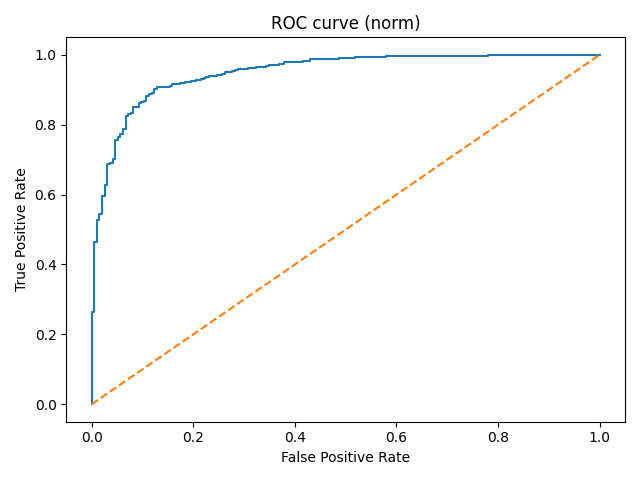
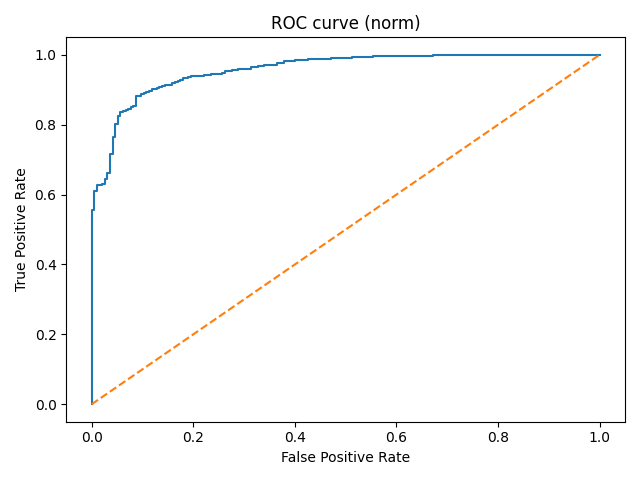
fixed bugs and added train data + automatic feature selection

diff --git a/draft.py b/draft.py
@@ -53,6 +53,8 @@ def gen_plots(df):
     hist(df, min_corr)
     hist(df, "rings")
 
+    return [max_corr, min_corr]
+
 def split_data(i, data_inputx, data_inputy):
 
     x_train, x_test, y_train, y_test = train_test_split(data_inputx, data_inputy, test_size=0.4, random_state=i)
@@ -81,6 +83,10 @@ def scipy_linear_mod(x_train_real, x_test_real, y_train, y_test, transform, mode
         rmse = np.sqrt(mean_squared_error(y_test, y_pred))
         rsquared = r2_score(y_test, y_pred)
 
+        y_pred_train = regr.predict(x_train)
+        rmse_train = np.sqrt(mean_squared_error(y_train, y_pred_train))
+        rsquared_train = r2_score(y_train, y_pred_train)
+
         plt.figure()
         plt.scatter(y_test, y_pred)
         plt.xlabel("True rings")
@@ -107,7 +113,7 @@ def scipy_linear_mod(x_train_real, x_test_real, y_train, y_test, transform, mode
         plt.savefig(f"regression resid vs fit {type_str}.png")
         plt.close()
 
-        return rmse, rsquared
+        return rmse, rsquared, rmse_train, rsquared_train
 
     elif model == 1:
         y_train_binary = (np.asarray(y_train) >= 7)
@@ -120,6 +126,11 @@ def scipy_linear_mod(x_train_real, x_test_real, y_train, y_test, transform, mode
         acc = accuracy_score(y_test_binary, y_pred)
         auc = roc_auc_score(y_test_binary, y_probs)
 
+        y_probs_train = regr.predict_proba(x_train)[:, 1]
+        y_pred_train  = (y_probs_train >= 0.5)
+        acc_train = accuracy_score(y_train_binary, y_pred_train)
+        auc_train = roc_auc_score(y_train_binary, y_probs_train)
+
         fpr, tpr, thresh = roc_curve(y_test_binary, y_probs)
         plt.figure()
         plt.plot(fpr, tpr); plt.plot([0,1], [0,1], linestyle="--")
@@ -130,9 +141,9 @@ def scipy_linear_mod(x_train_real, x_test_real, y_train, y_test, transform, mode
         plt.savefig(f"logistic roc {type_str}.png")
         plt.close()
 
-        return acc, auc
+        return acc, auc, acc_train, auc_train
 
-def selected(x_train_real, x_test_real, y_train, y_test, transform, model):
+def selected(x_train_real, x_test_real, y_train, y_test, transform, model, selected_feats):
     if transform == True:
         x_train = x_train_real.copy()
         x_test = x_test_real.copy()
@@ -147,17 +158,21 @@ def selected(x_train_real, x_test_real, y_train, y_test, transform, model):
 
     if model == 0:
         regr = linear_model.LinearRegression()
-        regr.fit(x_train.iloc[:, [5, 7]], y_train)
+        regr.fit(x_train[selected_feats], y_train)
 
-        y_pred = regr.predict(x_test.iloc[:, [5, 7]])
+        y_pred = regr.predict(x_test[selected_feats])
         rmse = np.sqrt(mean_squared_error(y_test, y_pred))
         rsquared = r2_score(y_test, y_pred)
+
+        y_pred_train = regr.predict(x_train[selected_feats])
+        rmse_train = np.sqrt(mean_squared_error(y_train, y_pred_train))
+        rsquared_train = r2_score(y_train, y_pred_train)
 
         plt.figure()
         plt.scatter(y_test, y_pred)
         plt.xlabel("True rings")
         plt.ylabel("Predicted rings")
-        plt.title(f"Linear: y_true vs y_pred ({type_str}) Selected Features")
+        plt.title(f"Linear: y_true vs y_pred ({type_str}) {str(selected_feats)}")
         plt.savefig(f"linreg_scatter_{type_str}_selected_Features.png")
         plt.close()
 
@@ -166,8 +181,8 @@ def selected(x_train_real, x_test_real, y_train, y_test, transform, model):
         plt.figure()
         plt.hist(res, bins=30)
         plt.xlabel("Residual = y_true - y_pred"); plt.ylabel("count")
-        plt.title(f"Linear: residuals hist ({type_str}) Selected Features")
-        plt.savefig(f"regression resid hist {type_str}_selected_features.png");
+        plt.title(f"Linear: residuals hist ({type_str}) {str(selected_feats)}")
+        plt.savefig(f"regression_resid_hist_{type_str}_selected_features.png");
         plt.close()
 
         # residuals vs fitted
@@ -175,34 +190,39 @@ def selected(x_train_real, x_test_real, y_train, y_test, transform, model):
         plt.scatter(y_pred, res)
         plt.xlabel("Fitted")
         plt.ylabel("Residual")
-        plt.title(f"Linear: residuals vs fitted ({type_str}) Selected Features")
+        plt.title(f"Linear: residuals vs fitted ({type_str}) {str(selected_feats)}")
         plt.savefig(f"regression resid vs fit {type_str}_selected_features.png")
         plt.close()
 
-        return rmseselec, rsquaredselec
+        return rmse, rsquared, rmse_train, rsquared_train
 
     elif model == 1:
         y_train_binary = (np.asarray(y_train) >= 7)
         y_test_binary = (np.asarray(y_test) >= 7) # note this is y true
         regr = linear_model.LogisticRegression(max_iter=1000)
-        regr.fit(x_train.iloc[:, [5, 7]], y_train_binary)
+        regr.fit(x_train[selected_feats], y_train_binary)
 
-        y_probs = regr.predict_proba(x_test.iloc[:, [5, 7]])[:, 1]
+        y_probs = regr.predict_proba(x_test[selected_feats])[:, 1]
         y_pred = (y_probs >= 0.5)
         acc = accuracy_score(y_test_binary, y_pred)
         auc = roc_auc_score(y_test_binary, y_probs)
+
+        y_probs_train = regr.predict_proba(x_train[selected_feats])[:, 1]
+        y_pred_train = (y_probs_train >= 0.5)
+        acc_train = accuracy_score(y_train_binary, y_pred_train)
+        auc_train = roc_auc_score(y_train_binary, y_probs_train)
 
         fpr, tpr, thresh = roc_curve(y_test_binary, y_probs)
         plt.figure()
         plt.plot(fpr, tpr); plt.plot([0,1], [0,1], linestyle="--")
         plt.xlabel("False Positive Rate")
         plt.ylabel("True Positive Rate")
-        plt.title(f"ROC curve ({type_str}) Selected Features")
+        plt.title(f"ROC curve ({type_str}) {str(selected_feats)}")
         plt.tight_layout()
         plt.savefig(f"logistic roc {type_str} selected features.png")
         plt.close()
 
-        return accselec, aucselec
+        return acc, auc, acc_train, auc_train
 
 def neural(x_train, x_test, y_train, y_test): #refer to trial.py
     transformer = MinMaxScaler().fit(x_train.iloc[:,1:])
@@ -216,7 +236,11 @@ def neural(x_train, x_test, y_train, y_test): #refer to trial.py
     rmse = np.sqrt(mean_squared_error(y_test, y_pred))
     rsquared = r2_score(y_test, y_pred)
 
-    return rmse, rsquared
+    y_pred_train = mlp.predict(x_train)
+    rmse_train = np.sqrt(mean_squared_error(y_train, y_pred_train))
+    rsquared_train = r2_score(y_train, y_pred_train)
+
+    return rmse, rsquared, rmse_train, rsquared_train
   
 def process_data(df):
     df.iloc[:, 0] = df.iloc[:, 0].replace({"M": 0, "F": 1, "I": 2})
@@ -224,7 +248,7 @@ def process_data(df):
 def main():
     df = pd.read_csv('abalone.data', header=None, names=["sex", "length", "diameter", "height", "whole_weight", "shucked_weight", "viscera_weight", "shell_weight", "rings"])
     process_data(df)
-    # gen_plots(df)
+    selected_features = gen_plots(df)
     print(df)
 
     rmse = np.zeros(NUM_EXPERIMENTS)
@@ -239,9 +263,29 @@ def main():
     
     rmse_sel = np.zeros(NUM_EXPERIMENTS)
     rsquared_sel = np.zeros(NUM_EXPERIMENTS)
+    acc_sel = np.zeros(NUM_EXPERIMENTS)
+    auc_sel = np.zeros(NUM_EXPERIMENTS)
 
     rmse_nn = np.zeros(NUM_EXPERIMENTS)
     rsquared_nn = np.zeros(NUM_EXPERIMENTS)
+
+    rmse_tr = np.zeros(NUM_EXPERIMENTS)
+    rsquared_tr = np.zeros(NUM_EXPERIMENTS)
+    acc_tr = np.zeros(NUM_EXPERIMENTS)
+    auc_tr = np.zeros(NUM_EXPERIMENTS)
+
+    rmse_norm_tr = np.zeros(NUM_EXPERIMENTS)
+    rsquared_norm_tr = np.zeros(NUM_EXPERIMENTS)
+    acc_norm_tr = np.zeros(NUM_EXPERIMENTS)
+    auc_norm_tr = np.zeros(NUM_EXPERIMENTS)
+
+    rmse_sel_tr = np.zeros(NUM_EXPERIMENTS)
+    rsquared_sel_tr = np.zeros(NUM_EXPERIMENTS)
+    acc_sel_tr = np.zeros(NUM_EXPERIMENTS)
+    auc_sel_tr = np.zeros(NUM_EXPERIMENTS)
+
+    rmse_nn_tr = np.zeros(NUM_EXPERIMENTS)
+    rsquared_nn_tr = np.zeros(NUM_EXPERIMENTS)
     
     data_inputx = df.iloc[:, 0:-1]
     data_inputy = df.iloc[:, -1]
@@ -250,20 +294,25 @@ def main():
 
     for i in range(NUM_EXPERIMENTS):
         x_train, x_test, y_train, y_test = split_data(i, data_inputx, data_inputy)
-        rmse_val, rsquared_val = scipy_linear_mod(x_train, x_test, y_train, y_test, False, 0)
-        acc_val, auc_val = scipy_linear_mod(x_train, x_test, y_train, y_test, False, 1)
-        rmse[i], rsquared[i], acc[i], auc[i] = rmse_val, rsquared_val, acc_val, auc_val
 
-        rmse_val, rsquared_val = scipy_linear_mod(x_train, x_test, y_train, y_test, True, 0)
-        acc_val, auc_val = scipy_linear_mod(x_train, x_test, y_train, y_test, True, 1)
-        rmse_norm[i], rsquared_norm[i], acc_norm[i], auc_norm[i] = rmse_val, rsquared_val, acc_val, auc_val
-    
-        rmseselec, rsquaredselec = selected(x_train, x_test, y_train, y_test, True, 0)
-        accselec, aucselec = selected(x_train, x_test, y_train, y_test, True, 1)
-        rmse_sel[i], rsquared_sel[i], acc_sel[i], auc_sel[i] = rmseselec, rsquaredselec, accselec, aucselec
-    
-        rmse_val, rsquared_val = neural(x_train, x_test, y_train, y_test)
-        rmse_nn[i], rsquared_nn[i] = rmse_val, rsquared_val
+        rmse_te, r2_te, rmse_tr_i, r2_tr_i = scipy_linear_mod(x_train, x_test, y_train, y_test, False, 0)
+        acc_te, auc_te, acc_tr_i, auc_tr_i = scipy_linear_mod(x_train, x_test, y_train, y_test, False, 1)
+        rmse[i], rsquared[i], acc[i], auc[i] = rmse_te, r2_te, acc_te, auc_te
+        rmse_tr[i], rsquared_tr[i], acc_tr[i], auc_tr[i] = rmse_tr_i, r2_tr_i, acc_tr_i, auc_tr_i
+
+        rmse_te, r2_te, rmse_tr_i, r2_tr_i = scipy_linear_mod(x_train, x_test, y_train, y_test, True, 0)
+        acc_te, auc_te, acc_tr_i, auc_tr_i = scipy_linear_mod(x_train, x_test, y_train, y_test, True, 1)
+        rmse_norm[i], rsquared_norm[i], acc_norm[i], auc_norm[i] = rmse_te, r2_te, acc_te, auc_te
+        rmse_norm_tr[i], rsquared_norm_tr[i], acc_norm_tr[i], auc_norm_tr[i] = rmse_tr_i, r2_tr_i, acc_tr_i, auc_tr_i
+
+        rmse_te, r2_te, rmse_tr_i, r2_tr_i = selected(x_train, x_test, y_train, y_test, True, 0, selected_features)
+        acc_te, auc_te, acc_tr_i, auc_tr_i = selected(x_train, x_test, y_train, y_test, True, 1, selected_features)
+        rmse_sel[i], rsquared_sel[i], acc_sel[i], auc_sel[i] = rmse_te, r2_te, acc_te, auc_te
+        rmse_sel_tr[i], rsquared_sel_tr[i], acc_sel_tr[i], auc_sel_tr[i] = rmse_tr_i, r2_tr_i, acc_tr_i, auc_tr_i
+
+        rmse_te, r2_te, rmse_tr_i, r2_tr_i = neural(x_train, x_test, y_train, y_test)
+        rmse_nn[i], rsquared_nn[i] = rmse_te, r2_te
+        rmse_nn_tr[i], rsquared_nn_tr[i] = rmse_tr_i, r2_tr_i
 
     print(f"RMSE no norm Mean: {rmse.mean()}, with norm: {rmse_norm.mean()}")
     print(f"RMSE no norm SD: {rmse.std()}, with norm: {rmse_norm.std()}")
@@ -289,6 +338,32 @@ def main():
     print(f"RMSE of Neural Network SD: {rmse_nn.std()}")
     print(f"Rsquared of Neural Network Mean: {rsquared_nn.mean()}")
     print(f"Rsquared of Neural Network SD: {rsquared_nn.std()}")
+
+    print(f"TRAIN RMSE no norm Mean: {rmse_tr.mean()}, with norm: {rmse_norm_tr.mean()}")
+    print(f"TRAIN RMSE no norm SD: {rmse_tr.std()}, with norm: {rmse_norm_tr.std()}")
+    print(f"TRAIN Rsquared no norm Mean: {rsquared_tr.mean()}, with norm: {rsquared_norm_tr.mean()}")
+    print(f"TRAIN Rsquared no norm SD: {rsquared_tr.std()}, with norm: {rsquared_norm_tr.std()}")
+
+    print(f"TRAIN Accuracy no norm Mean: {acc_tr.mean()}, with norm: {acc_norm_tr.mean()}")
+    print(f"TRAIN Accuracy no norm SD: {acc_tr.std()} with norm: {acc_norm_tr.std()}")
+    print(f"TRAIN AUC no norm Mean: {auc_tr.mean()}, with norm: {auc_norm_tr.mean()}")
+    print(f"TRAIN AUC no norm SD: {auc_tr.std()} with norm: {auc_norm_tr.std()}")
+
+    print(f"TRAIN RMSE of Selected Features Mean: {rmse_sel_tr.mean()}")
+    print(f"TRAIN RMSE of Selected Features SD: {rmse_sel_tr.std()}")
+    print(f"TRAIN Rsquared of Selected Features Mean: {rsquared_sel_tr.mean()}")
+    print(f"TRAIN Rsquared of Selected Features SD: {rsquared_sel_tr.std()}")
+
+    print(f"TRAIN Accuracy of Selected Features Mean: {acc_sel_tr.mean()}")
+    print(f"TRAIN Accuracy of Selected Features SD: {acc_sel_tr.std()}")
+    print(f"TRAIN AUC of Selected Features Mean: {auc_sel_tr.mean()}")
+    print(f"TRAIN AUC of Selected Features SD: {auc_sel_tr.std()}")
+
+    print(f"TRAIN RMSE of Neural Network Mean: {rmse_nn_tr.mean()}")
+    print(f"TRAIN RMSE of Neural Network SD: {rmse_nn_tr.std()}")
+    print(f"TRAIN Rsquared of Neural Network Mean: {rsquared_nn_tr.mean()}")
+    print(f"TRAIN Rsquared of Neural Network SD: {rsquared_nn_tr.std()}")
+
 
 if __name__ =='__main__':
     main() 

diff --git a/trials.py b/trials.py
@@ -70,12 +70,11 @@ def main():
     plt.close()
    
     for j in layers:
-          rsquared_val = []
-            for i in learning:
-                rmse, rsquared = neural(x_train, x_test, y_train, y_test, j, i)
-                rsquared_val = np.append(rsquared_val, rsquared)
-        
-            plt.plot(learning, rsquared_val, linestyle='--', label=f'{j}')
+        rsquared_val = []
+        for i in learning:
+            rmse, rsquared = neural(x_train, x_test, y_train, y_test, j, i)
+            rsquared_val = np.append(rsquared_val, rsquared)
+        plt.plot(learning, rsquared_val, linestyle='--', label=f'{j}')
             
     plt.xlabel('learning rate')
     plt.ylabel('R^2')
